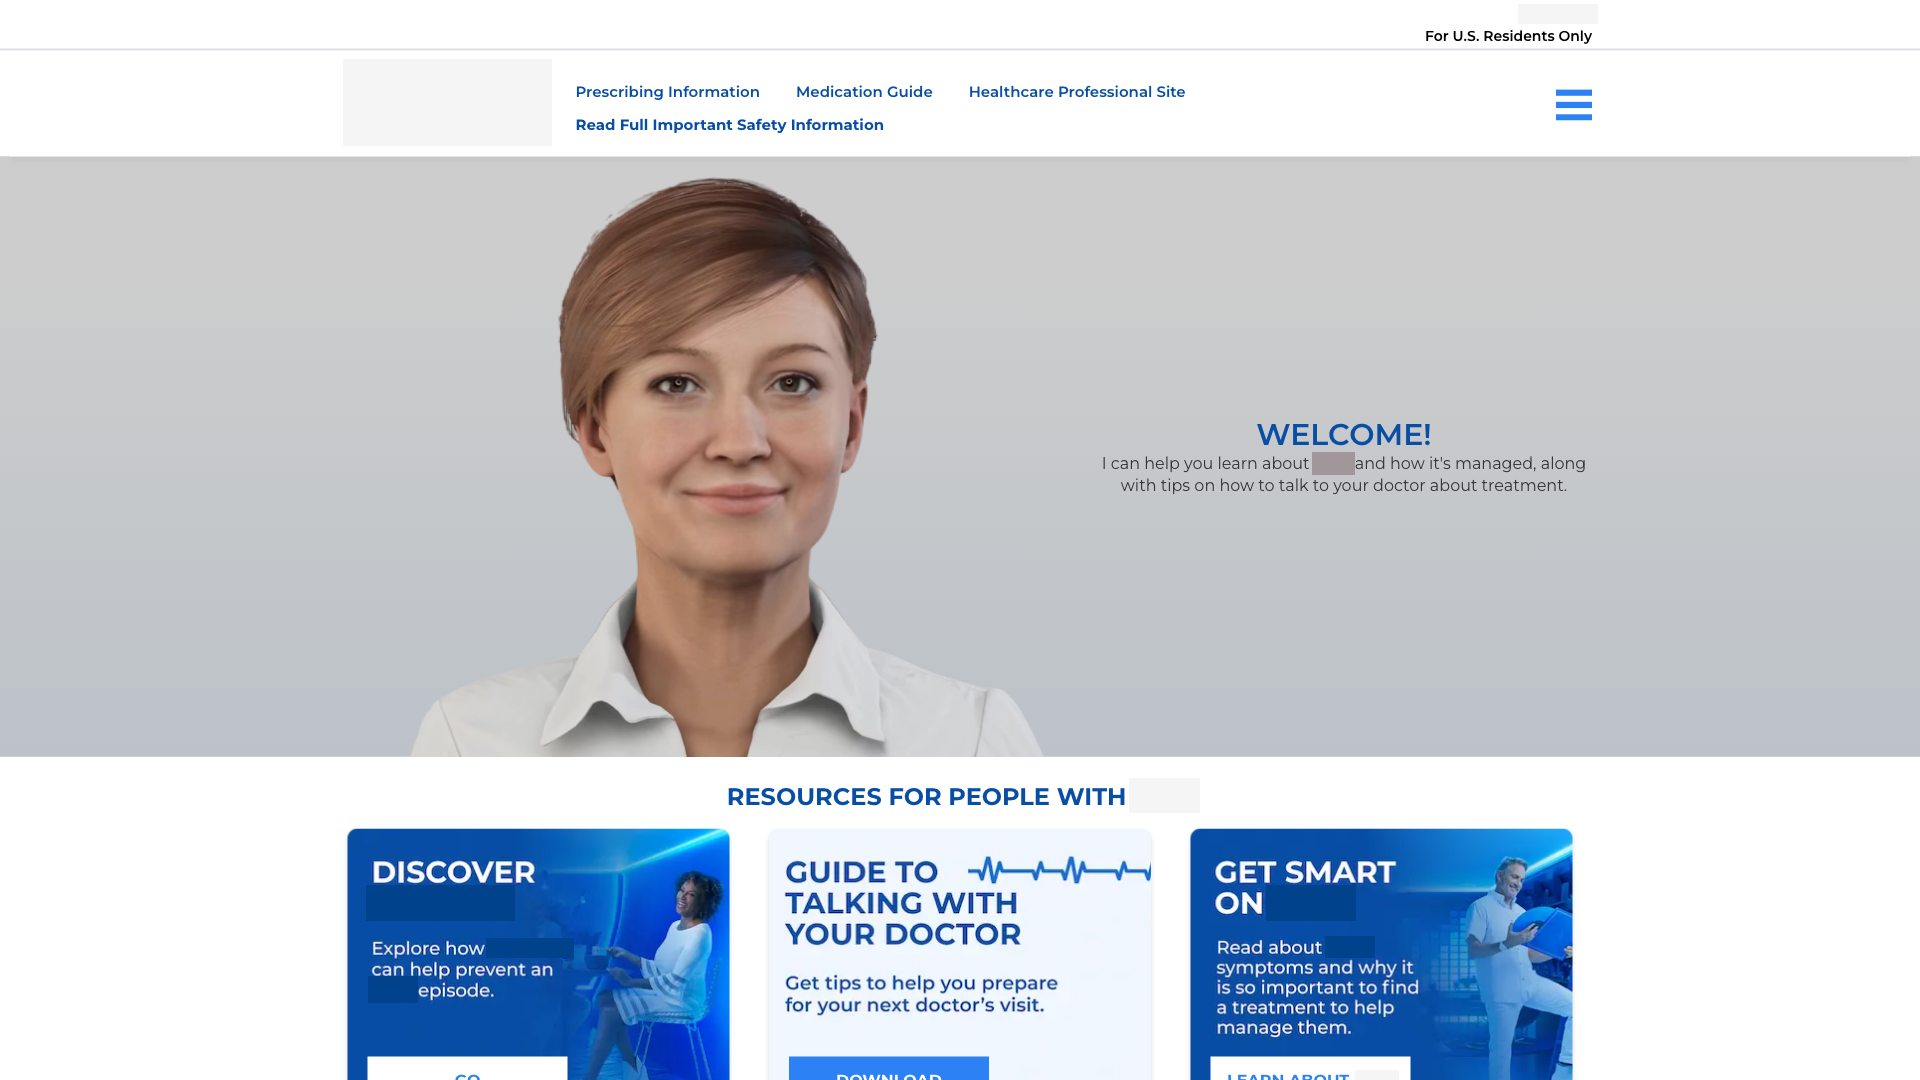
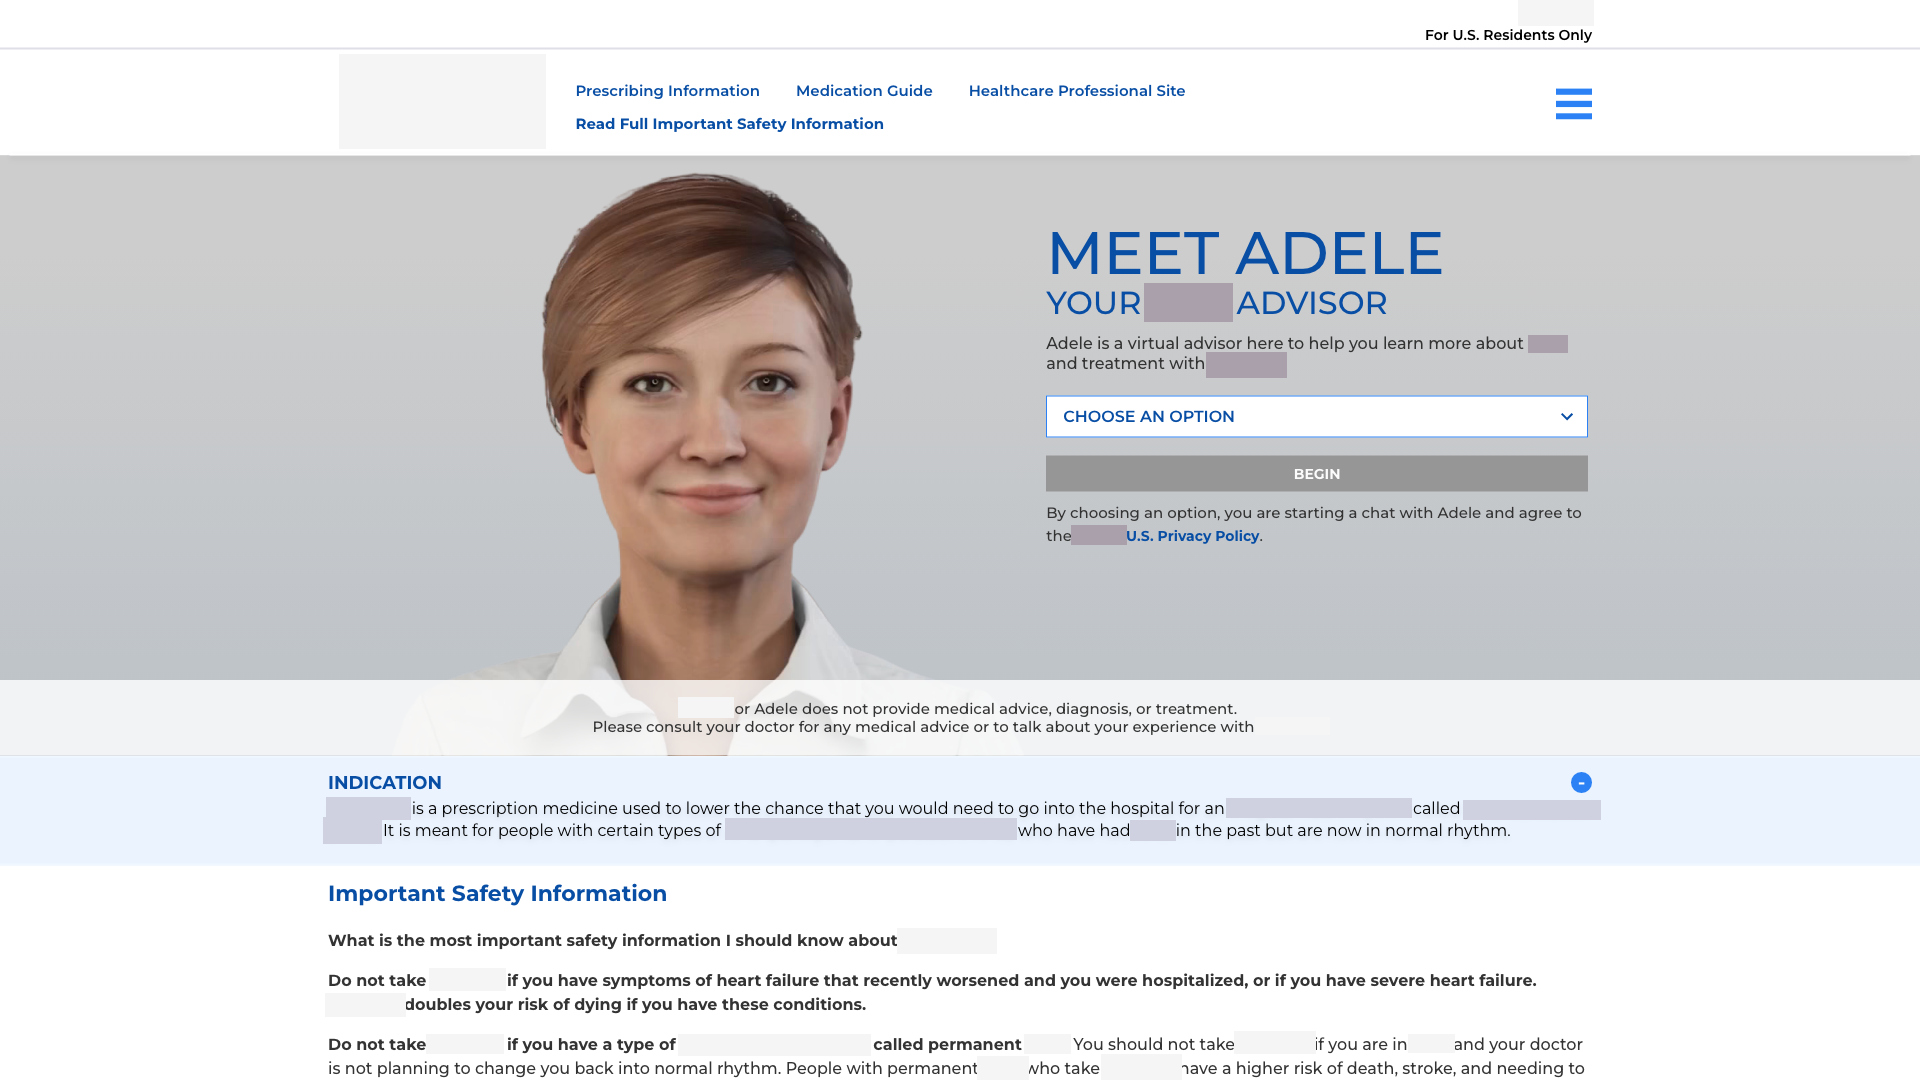
feat: image carousel

diff --git a/src/components/cards/ImageCard.tsx b/src/components/cards/ImageCard.tsx
@@ -1,13 +1,59 @@
+'use client';
+
 import Image from 'next/image';
+import { useState } from 'react';
+import { ChevronLeft, ChevronRight } from '../Icons';
 
 export default function ImageCard({ project }: { project: Project }) {
+    const [idx, setIdx] = useState(0);
+
+    // go to next image
+    const next = () => {
+        if (idx < project.images.length - 1) {
+            setIdx(idx + 1);
+        } else {
+            setIdx(0);
+        }
+    };
+
+    // go to previous image
+    const prev = () => {
+        if (idx > 0) {
+            setIdx(idx - 1);
+        } else {
+            setIdx(project.images.length - 1);
+        }
+    };
+
     return (
-        <Image
-            width={1920}
-            height={1080}
-            src={project.images[0]}
-            alt={project.title}
-            className="select-none"
-        />
+        <div className="relative h-full w-full">
+            {project.images[idx - 1] && (
+                <div className="absolute inset-y-0 left-0 flex items-center">
+                    <button
+                        onClick={prev}
+                        className="flex h-12 w-12 items-center justify-center rounded-r bg-background/20 transition-all hover:bg-background/80"
+                    >
+                        <ChevronLeft />
+                    </button>
+                </div>
+            )}
+            {project.images[idx + 1] && (
+                <div className="absolute inset-y-0 right-0 flex items-center">
+                    <button
+                        onClick={next}
+                        className="flex h-12 w-12 items-center justify-center rounded-l bg-background/20 transition-all hover:bg-background/80"
+                    >
+                        <ChevronRight />
+                    </button>
+                </div>
+            )}
+            <Image
+                width={1920}
+                height={1080}
+                src={project.images[idx]}
+                alt={project.title}
+                className="select-none transition-all"
+            />
+        </div>
     );
 }

diff --git a/src/components/Icons.tsx b/src/components/Icons.tsx
@@ -104,3 +104,37 @@ export const Star = () => (
         />
     </svg>
 );
+
+export const ChevronLeft = () => (
+    <svg
+        xmlns="http://www.w3.org/2000/svg"
+        fill="none"
+        viewBox="0 0 24 24"
+        strokeWidth={1.5}
+        stroke="currentColor"
+        className="h-6 w-6"
+    >
+        <path
+            strokeLinecap="round"
+            strokeLinejoin="round"
+            d="M15.75 19.5L8.25 12l7.5-7.5"
+        />
+    </svg>
+);
+
+export const ChevronRight = () => (
+    <svg
+        xmlns="http://www.w3.org/2000/svg"
+        fill="none"
+        viewBox="0 0 24 24"
+        strokeWidth={1.5}
+        stroke="currentColor"
+        className="h-6 w-6"
+    >
+        <path
+            strokeLinecap="round"
+            strokeLinejoin="round"
+            d="M8.25 19.5L15.75 12 8.25 4.5"
+        />
+    </svg>
+);

diff --git a/src/data.ts b/src/data.ts
@@ -100,7 +100,7 @@ It also means I pay per request rather than per month, which is cheaper for me.
         title: 'Adele',
         showcase: true,
         favorite: true,
-        images: ['/adelePreview.png'],
+        images: ['/adelePreview1.png', '/adelePreview2.png'],
         tags: [
             'TypeScript',
             'NextJS',
